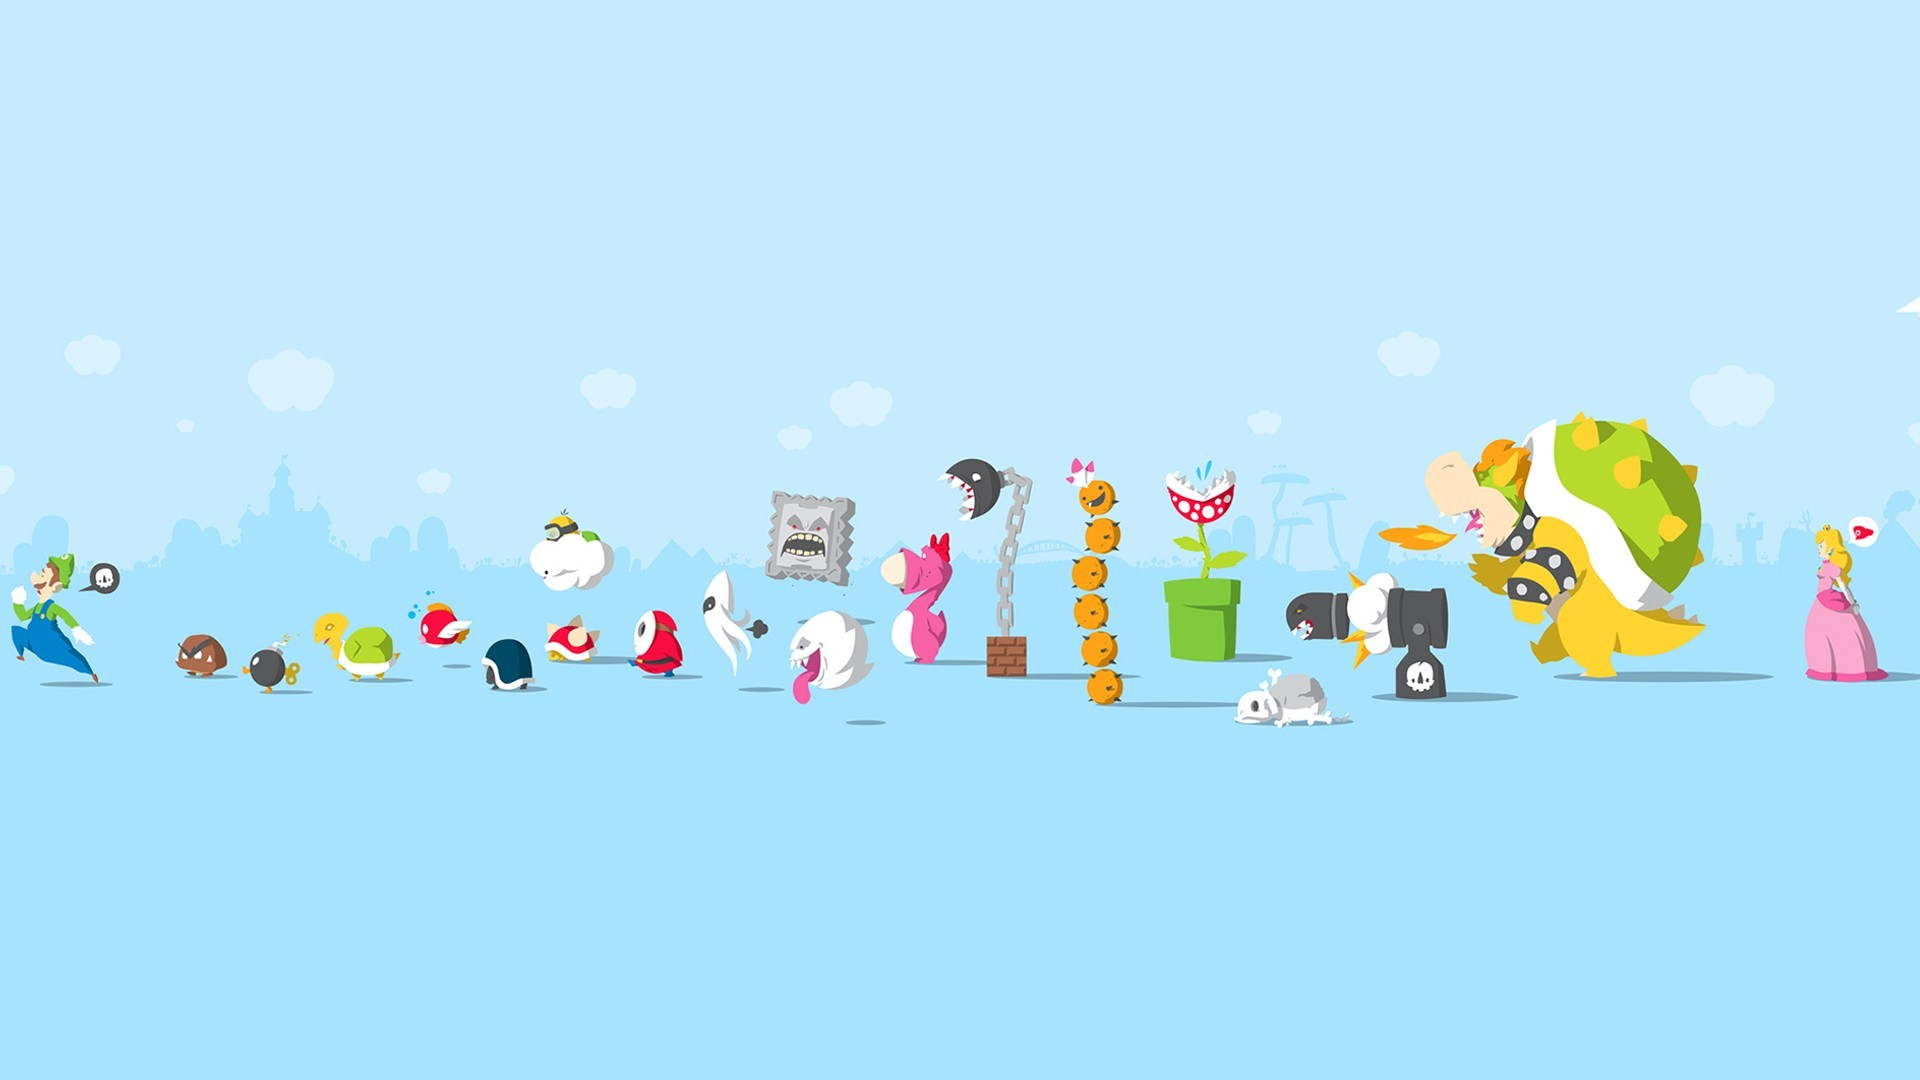
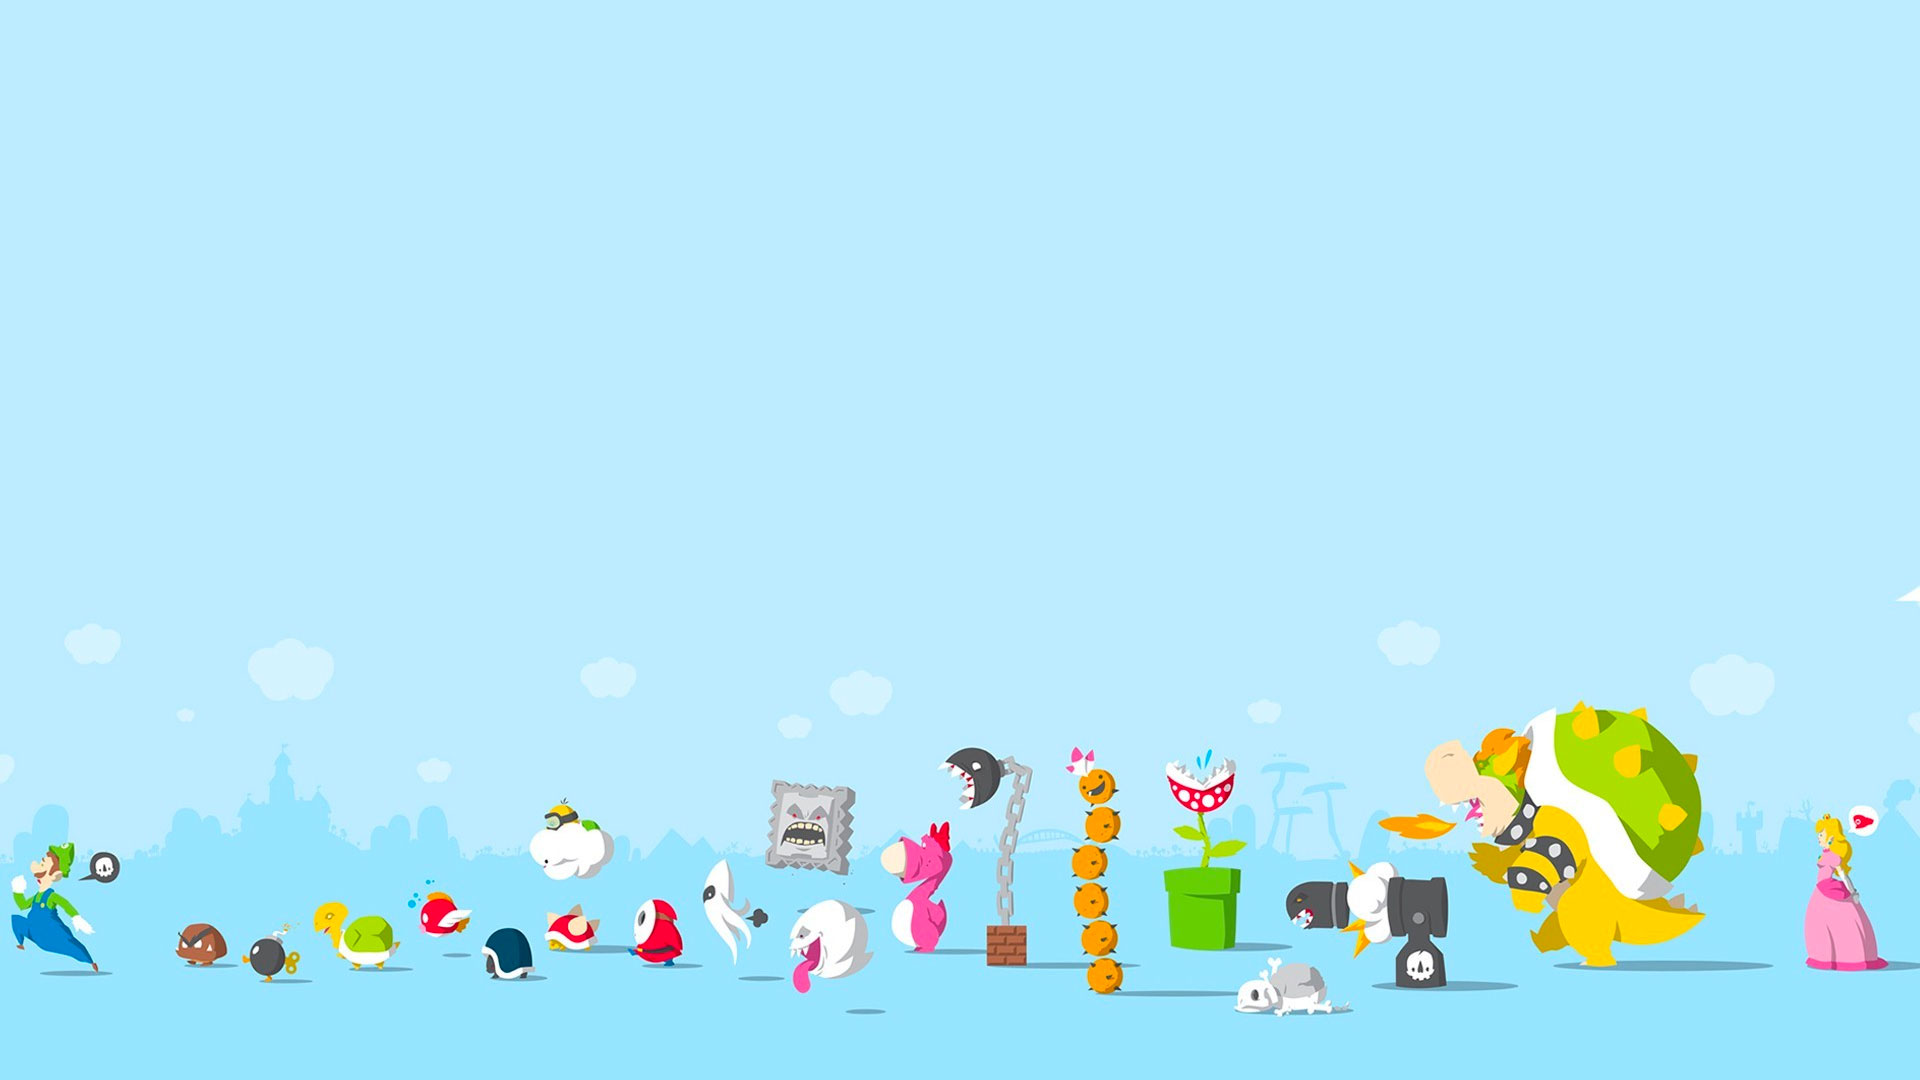
change background

diff --git a/styles.css b/styles.css
@@ -7,8 +7,9 @@
 body {
   background-color: #bfe7fd;
   background-image: url(images/nintendo-background.jpg);
-  background-position: top;
+  background-position: bottom;
   background-repeat: repeat-x;
+  padding-bottom: 250px;
 }
 
 /*header styles*/
@@ -150,7 +151,7 @@ main h1 {
   padding: 5%;
   display: flex;
   flex-direction: column;
-  background: url(images/card-background.jpg);
+  background: rgba(255, 255, 255, 0.8);
 }
 
 h2 {
